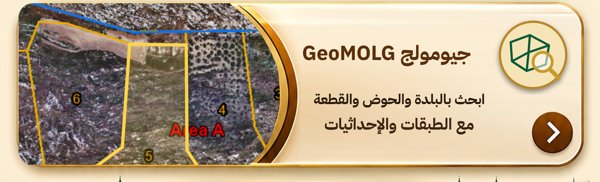
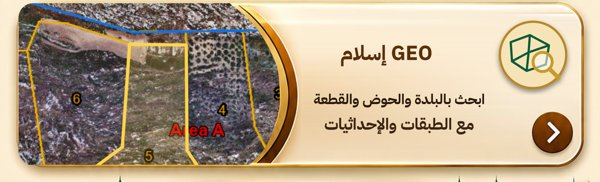
PDF grid numbers outside the frame with brighter crosses, table alignment; rename tools to GEO/GOV إسلام
Claude-Session: https://claude.ai/code/session_01AkLSPwRHM58vdM6rzVeHiX

Changed region(s): [[0.48, 0.2473, 0.78, 0.3846]]

diff --git a/app/src/main/assets/geomolg/pdf.js b/app/src/main/assets/geomolg/pdf.js
@@ -88,8 +88,9 @@ async function exportPDF(opts) {
     const xs = all.map(p => p[0]), ys = all.map(p => p[1]);
     let bx0 = Math.min(...xs), bx1 = Math.max(...xs), by0 = Math.min(...ys), by1 = Math.max(...ys);
     const W = mm(210), H = mm(297);
-    const F = { x: mm(10), y: mm(34), w: mm(190), h: mm(172) };
-    const fwmm = 190, fhmm = 172;
+    // with the coordinate grid the picture is a little smaller so the numbers fit outside it
+    const fwmm = opts.grid ? 174 : 190, fhmm = opts.grid ? 162 : 172;
+    const F = { x: mm(opts.grid ? 18 : 10), y: mm(opts.grid ? 40 : 34), w: mm(fwmm), h: mm(fhmm) };
     const need = Math.max((bx1 - bx0) * 1.5 * 1000 / fwmm, (by1 - by0) * 1.5 * 1000 / fhmm);
     const S = NICE_SCALES.find(v => v >= need) || Math.ceil(need / 1000) * 1000;
     const gw = fwmm * S / 1000, gh = fhmm * S / 1000, cxg = (bx0 + bx1) / 2, cyg = (by0 + by1) / 2;
@@ -151,7 +152,7 @@ async function exportPDF(opts) {
     ctx.strokeStyle = GREEN; ctx.lineWidth = 2; ctx.strokeRect(sx, sy, Lp, mm(1.6));
     txt(ctx, "0", sx, sy - mm(2.6), `600 ${mm(2.6)}px ${MF}`, INK, "center"); txt(ctx, Lm + " م", sx + Lp, sy - mm(2.6), `600 ${mm(2.6)}px ${AF}`, INK, "center");
     txt(ctx, "مقياس الرسم 1:" + S.toLocaleString("en-US"), sx + Lp / 2, sy - mm(2.6), `700 ${mm(2.8)}px ${AF}`, GREEN, "center");
-    if (opts.grid) drawGrid(ctx, F, { gx0, gx1, gy0, gy1, X, Y, gw }, opts.sys === "itm", { nx: F.x + mm(24), sx: sx + Lp + mm(5), sTop: F.y + F.h - mm(18) });
+    if (opts.grid) drawGrid(ctx, F, { gx0, gx1, gy0, gy1, X, Y, gw }, opts.sys === "itm");
 
     // info table
     const area = rings.reduce((t, r) => t + Math.abs(ringArea(r)), 0), per = cr.reduce((t, p) => t + p.reduce((u, a, i) => { const b = p[(i + 1) % p.length]; return u + Math.hypot(b[0] - a[0], b[1] - a[1]); }, 0), 0);
@@ -173,7 +174,7 @@ async function exportPDF(opts) {
       if (i) { ctx.strokeStyle = "#eadfbf"; ctx.lineWidth = 1.5; ctx.beginPath(); ctx.moveTo(tx0 + mm(1), y); ctx.lineTo(tx1 - mm(1), y); ctx.stroke(); }
       if (i % 2 === 0) { ctx.fillStyle = "rgba(243,234,210,.55)"; ctx.fillRect(tx1 - mm(36), y + 1, mm(36) - 2, rh - 2); }
       txt(ctx, r[0], tx1 - mm(2.5), y + rh / 2, `600 ${mm(3.1)}px ${AF}`, "#5d6458");
-      const val = String(r[1]); const isNum = /^[XY0-9 .,:–-]+$/.test(val) || /^X /.test(val);
+      const val = String(r[1]); const isNum = /^X /.test(val);
       txt(ctx, val, isNum ? tx0 + mm(3) : tx1 - mm(39), y + rh / 2, `700 ${mm(3.2)}px ${isNum ? MF : AF}`, INK, isNum ? "left" : "right");
     });
     drawStamp(ctx, mm(41), mm(246), mm(31));
@@ -213,35 +214,36 @@ async function exportPDF(opts) {
   finally { if (btn) { btn.disabled = false; btn.textContent = old; } }
 }
 
-/* real coordinates around the picture: ticks + labels on the frame, small crosses inside */
-function drawGrid(ctx, F, G, itm, avoid) {
+/* real coordinates around the picture: numbers outside the frame, ticks on it, bright crosses inside */
+function drawGrid(ctx, F, G, itm) {
   const { gx0, gx1, gy0, gy1, X, Y, gw } = G;
   const steps = [10, 20, 25, 50, 100, 200, 250, 500, 1000, 2000, 5000], step = steps.reduce((a, b) => Math.abs(b - gw / 5) < Math.abs(a - gw / 5) ? b : a);
   const to = (x, y) => itm ? proj4("EPSG:28191", "EPSG:2039", [x, y]) : [x, y];
   const from = (x, y) => itm ? proj4("EPSG:2039", "EPSG:28191", [x, y]) : [x, y];
-  // crossings of a coordinate value along an edge (edge given in grid/PG coordinates)
   const cross = (a, b, k) => { const out = [], N = 300; let pv = null, pp = null;
     for (let i = 0; i <= N; i++) { const t = i / N, x = a[0] + (b[0] - a[0]) * t, y = a[1] + (b[1] - a[1]) * t, v = to(x, y)[k];
       if (pv !== null) { const m0 = Math.floor(pv / step), m1 = Math.floor(v / step); if (m0 !== m1) { const val = Math.max(m0, m1) * step, f = (val - pv) / (v - pv); out.push({ x: pp[0] + (x - pp[0]) * f, y: pp[1] + (y - pp[1]) * f, val }); } }
       pv = v; pp = [x, y]; } return out; };
-  const fs = mm(2.5), font = `700 ${fs}px ${MF}`, tick = mm(2.6);
-  ctx.save(); ctx.lineWidth = 3;
-  const lab = (s, x, y, rot) => { ctx.save(); ctx.translate(x, y); if (rot) ctx.rotate(rot); ctx.font = font; ctx.textAlign = "center"; ctx.textBaseline = "middle"; ctx.direction = "ltr";
-    ctx.lineJoin = "round"; ctx.strokeStyle = "rgba(255,255,255,.95)"; ctx.lineWidth = 6; ctx.strokeText(s, 0, 0); ctx.fillStyle = GREEN_D; ctx.fillText(s, 0, 0); ctx.restore(); };
-  const line = (x1, y1, x2, y2) => { ctx.strokeStyle = "#fff"; ctx.lineWidth = 5; ctx.beginPath(); ctx.moveTo(x1, y1); ctx.lineTo(x2, y2); ctx.stroke(); ctx.strokeStyle = GREEN_D; ctx.lineWidth = 2.2; ctx.stroke(); };
-  // X along top & bottom
-  cross([gx0, gy1], [gx1, gy1], 0).forEach(c => { const px = X(c.x); if (px < avoid.nx) return; line(px, F.y, px, F.y + tick); lab(String(c.val), px, F.y + tick + fs * .9); });
-  cross([gx0, gy0], [gx1, gy0], 0).forEach(c => { const px = X(c.x); if (px < avoid.sx) return; line(px, F.y + F.h, px, F.y + F.h - tick); lab(String(c.val), px, F.y + F.h - tick - fs * .9); });
-  // Y along left & right (read bottom-to-top)
-  cross([gx0, gy0], [gx0, gy1], 1).forEach(c => { const py = Y(c.y); if (py < F.y + mm(26) || py > avoid.sTop) return; line(F.x, py, F.x + tick, py); lab(String(c.val), F.x + tick + fs * .9, py, -Math.PI / 2); });
-  cross([gx1, gy0], [gx1, gy1], 1).forEach(c => { const py = Y(c.y); if (py < F.y + mm(6) || py > F.y + F.h - mm(6)) return; line(F.x + F.w, py, F.x + F.w - tick, py); lab(String(c.val), F.x + F.w - tick - fs * .9, py, -Math.PI / 2); });
-  // crosses at grid intersections
+  const fs = mm(2.6), font = `700 ${fs}px ${MF}`, tick = mm(2.2), gap = mm(1.2);
+  ctx.save();
+  const lab = (s, x, y, rot) => { ctx.save(); ctx.translate(x, y); if (rot) ctx.rotate(rot); ctx.font = font; ctx.textAlign = "center"; ctx.textBaseline = "middle"; ctx.direction = "ltr"; ctx.fillStyle = GREEN_D; ctx.fillText(s, 0, 0); ctx.restore(); };
+  const out = (x1, y1, x2, y2) => { ctx.strokeStyle = GREEN_D; ctx.lineWidth = 3; ctx.beginPath(); ctx.moveTo(x1, y1); ctx.lineTo(x2, y2); ctx.stroke(); };
+  const bright = (x1, y1, x2, y2) => { ctx.lineCap = "round"; ctx.strokeStyle = "rgba(0,0,0,.75)"; ctx.lineWidth = 7; ctx.beginPath(); ctx.moveTo(x1, y1); ctx.lineTo(x2, y2); ctx.stroke(); ctx.strokeStyle = "#ffe14d"; ctx.lineWidth = 3.4; ctx.stroke(); };
+  const sys = itm ? "ITM" : "PG";
+  cross([gx0, gy1], [gx1, gy1], 0).forEach(c => { const px = X(c.x); out(px, F.y, px, F.y - tick); bright(px, F.y, px, F.y + tick); lab(String(c.val), px, F.y - tick - gap - fs * .5); });
+  cross([gx0, gy0], [gx1, gy0], 0).forEach(c => { const px = X(c.x); out(px, F.y + F.h, px, F.y + F.h + tick); bright(px, F.y + F.h, px, F.y + F.h - tick); lab(String(c.val), px, F.y + F.h + tick + gap + fs * .5); });
+  cross([gx0, gy0], [gx0, gy1], 1).forEach(c => { const py = Y(c.y); out(F.x, py, F.x - tick, py); bright(F.x, py, F.x + tick, py); lab(String(c.val), F.x - tick - gap - fs * .5, py, -Math.PI / 2); });
+  cross([gx1, gy0], [gx1, gy1], 1).forEach(c => { const py = Y(c.y); out(F.x + F.w, py, F.x + F.w + tick, py); bright(F.x + F.w, py, F.x + F.w - tick, py); lab(String(c.val), F.x + F.w + tick + gap + fs * .5, py, -Math.PI / 2); });
+  // corner captions: which axis / system
+  ctx.font = `700 ${mm(2.3)}px ${MF}`; ctx.fillStyle = GOLD; ctx.textBaseline = "middle"; ctx.direction = "ltr";
+  ctx.textAlign = "right"; ctx.fillText("X " + sys, F.x - mm(1), F.y - tick - gap - fs * .5);
+  ctx.textAlign = "left"; ctx.fillText("Y " + sys, F.x + F.w + mm(1), F.y - tick - gap - fs * .5);
+  // crosses at the grid intersections
   const c0 = to(gx0, gy0), c1 = to(gx1, gy1), c2 = to(gx0, gy1), c3 = to(gx1, gy0);
   const ax0 = Math.min(c0[0], c1[0], c2[0], c3[0]), ax1 = Math.max(c0[0], c1[0], c2[0], c3[0]), ay0 = Math.min(c0[1], c1[1], c2[1], c3[1]), ay1 = Math.max(c0[1], c1[1], c2[1], c3[1]);
   for (let gx = Math.ceil(ax0 / step) * step; gx <= ax1; gx += step) for (let gy = Math.ceil(ay0 / step) * step; gy <= ay1; gy += step) {
-    const p = from(gx, gy), px = X(p[0]), py = Y(p[1]); if (px < F.x + mm(8) || px > F.x + F.w - mm(8) || py < F.y + mm(8) || py > F.y + F.h - mm(8)) continue;
-    const r = mm(1.6); line(px - r, py, px + r, py); line(px, py - r, px, py + r);
+    const p = from(gx, gy), px = X(p[0]), py = Y(p[1]); if (px < F.x + mm(5) || px > F.x + F.w - mm(5) || py < F.y + mm(5) || py > F.y + F.h - mm(5)) continue;
+    const r = mm(2.4); bright(px - r, py, px + r, py); bright(px, py - r, px, py + r);
   }
-  ctx.strokeStyle = GREEN; ctx.lineWidth = mm(.6); rr(ctx, F.x, F.y, F.w, F.h, mm(2)); ctx.stroke();
   ctx.restore();
 }

diff --git a/app/src/main/assets/home.html b/app/src/main/assets/home.html
@@ -75,11 +75,11 @@ body.open .sheet-bg{opacity:1;pointer-events:auto}
   </div>
   <div class="gap" style="background-image:url(img/ui-g3.png)"></div>
   <div class="ui"><img src="img/ui-p5.jpg" alt="">
-    <a class="hit" href="govmap/index.html" aria-label="إحداثيات GovMap" style="left:3.19%;top:0.70%;width:94.05%;height:90.88%"></a>
+    <a class="hit" href="govmap/index.html" aria-label="GOV إسلام" style="left:3.19%;top:0.70%;width:94.05%;height:90.88%"></a>
   </div>
   <div class="gap" style="background-image:url(img/ui-g3.png)"></div>
   <div class="ui"><img src="img/ui-p6.jpg" alt="">
-    <a class="hit" href="geomolg/index.html" aria-label="جيومولج" style="left:3.19%;top:0.70%;width:94.05%;height:90.88%"></a>
+    <a class="hit" href="geomolg/index.html" aria-label="GEO إسلام" style="left:3.19%;top:0.70%;width:94.05%;height:90.88%"></a>
   </div>
   <img class="sky" src="img/ui-sky.jpg" alt="دقة .. احترافية .. لنتائج أفضل">
   <div class="fill"></div>
@@ -138,7 +138,7 @@ body.open .sheet-bg{opacity:1;pointer-events:auto}
   <h3 id="t-about">حول التطبيق</h3>
   <div class="about">
     <b style="font:700 22px var(--f-title);color:var(--green-2)">المساح إسلام</b><br>
-    حاسب الكواشين · الإفراز · حاسبة الجرف · إحداثيات GovMap · جيومولج<br>
+    حاسب الكواشين · الإفراز · حاسبة الجرف · GOV إسلام · GEO إسلام<br>
     صاحب ومطور التطبيق: <b>إسلام إسماعيل دويكات</b><br>
     <span class="phone">0598161862</span><br>
     <span id="ver2" style="color:var(--muted)"></span><br>
@@ -172,10 +172,10 @@ function projects() {
     out.push({ key: "ifraz-v1", img: "img/c-ifraz.jpg", href: "ifraz/index.html", title: fz.landTitle || "قطعة للإفراز", sub: "الإفراز · " + fmt(area(fz.boundary)) + " م² · " + (fz.owners || []).length + " مالك" });
   const gm = read("govmap-xy-v1");
   if (gm && Array.isArray(gm.hist) && gm.hist.length)
-    out.push({ key: "govmap-xy-v1", img: "img/c-govmap.jpg", href: "govmap/index.html", title: "إحداثيات " + gm.hist[0].x + " , " + gm.hist[0].y, sub: "إحداثيات GovMap · " + gm.hist.length + " نقطة محفوظة" });
+    out.push({ key: "govmap-xy-v1", img: "img/c-govmap.jpg", href: "govmap/index.html", title: "إحداثيات " + gm.hist[0].x + " , " + gm.hist[0].y, sub: "GOV إسلام · " + gm.hist.length + " نقطة محفوظة" });
   const gmo = read("geomolg-v1");
   if (gmo && gmo.vil)
-    out.push({ key: "geomolg-v1", img: "img/c-geomolg.jpg", href: "geomolg/index.html", title: gmo.vil + (gmo.blk ? " – حوض " + gmo.blk.split("/")[0] : "") + (gmo.plot ? " – قطعة " + gmo.plot : ""), sub: "جيومولج · آخر بحث" });
+    out.push({ key: "geomolg-v1", img: "img/c-geomolg.jpg", href: "geomolg/index.html", title: gmo.vil + (gmo.blk ? " – حوض " + gmo.blk.split("/")[0] : "") + (gmo.plot ? " – قطعة " + gmo.plot : ""), sub: "GEO إسلام · آخر بحث" });
   return out;
 }
 function renderProjects() {

diff --git a/app/src/main/assets/govmap/index.html b/app/src/main/assets/govmap/index.html
@@ -3,7 +3,7 @@
 <head>
 <meta charset="utf-8">
 <meta name="viewport" content="width=device-width,initial-scale=1,viewport-fit=cover">
-<title>إحداثيات GovMap</title>
+<title>GOV إسلام</title>
 <link rel="stylesheet" href="../ifraz/fonts.css">
 <link rel="stylesheet" href="../theme.css">
 <style>
@@ -45,10 +45,10 @@ h2{font:700 18px var(--am-title);color:var(--am-green-800);margin:0 0 8px}
 </style>
 </head>
 <body>
-<div class="am-bar"><span class="am-title"><img src="../img/t-govmap.png" alt=""><b>إحداثيات GovMap</b></span><a class="am-home" href="../home.html"><svg viewBox="0 0 24 24" fill="currentColor" aria-hidden="true"><path d="M12 3 2.5 11h2.7v9.5h5.3v-6h3v6h5.3V11h2.7z"/></svg>الرئيسية</a></div>
+<div class="am-bar"><span class="am-title"><img src="../img/t-govmap.png" alt=""><b>GOV إسلام</b></span><a class="am-home" href="../home.html"><svg viewBox="0 0 24 24" fill="currentColor" aria-hidden="true"><path d="M12 3 2.5 11h2.7v9.5h5.3v-6h3v6h5.3V11h2.7z"/></svg>الرئيسية</a></div>
 <div class="am-spacer" aria-hidden="true"></div>
 <main>
-  <h1>إحداثيات GovMap</h1>
+  <h1>GOV إسلام</h1>
   <p class="lead">أدخل الإحداثيات بنظام ITM (الشبكة الإسرائيلية الجديدة)، ويفتح الموقع على GovMap مع حدود الأحواض ومناطق أوسلو.</p>
 
   <section class="card">

diff --git a/app/src/main/assets/geomolg/index.html b/app/src/main/assets/geomolg/index.html
@@ -3,7 +3,7 @@
 <head>
 <meta charset="utf-8">
 <meta name="viewport" content="width=device-width,initial-scale=1,viewport-fit=cover">
-<title>جيومولج</title>
+<title>GEO إسلام</title>
 <link rel="stylesheet" href="../ifraz/fonts.css">
 <link rel="stylesheet" href="lib/leaflet.css">
 <link rel="stylesheet" href="../theme.css">
@@ -70,7 +70,7 @@ select:disabled{opacity:.55}
 </style>
 </head>
 <body>
-<div class="am-bar"><span class="am-title"><img src="../img/t-geomolg.png" alt=""><b>جيومولج</b></span><a class="am-home" href="../home.html"><svg viewBox="0 0 24 24" fill="currentColor" aria-hidden="true"><path d="M12 3 2.5 11h2.7v9.5h5.3v-6h3v6h5.3V11h2.7z"/></svg>الرئيسية</a></div>
+<div class="am-bar"><span class="am-title"><img src="../img/t-geomolg.png" alt=""><b>GEO إسلام</b></span><a class="am-home" href="../home.html"><svg viewBox="0 0 24 24" fill="currentColor" aria-hidden="true"><path d="M12 3 2.5 11h2.7v9.5h5.3v-6h3v6h5.3V11h2.7z"/></svg>الرئيسية</a></div>
 <div class="am-spacer" aria-hidden="true"></div>
 
 <div class="top">

diff --git a/app/src/main/java/ps/islam/hisas/MapActivity.java b/app/src/main/java/ps/islam/hisas/MapActivity.java
@@ -236,7 +236,7 @@ public class MapActivity extends Activity {
         txt.setOrientation(LinearLayout.VERTICAL);
         txt.setPadding(dp(10), 0, dp(10), 0);
         TextView t = new TextView(this);
-        t.setText("إحداثيات GovMap");
+        t.setText("GOV إسلام");
         t.setTextColor(Color.parseColor("#f0cf6a"));
         t.setTextSize(TypedValue.COMPLEX_UNIT_SP, 19);
         t.setTypeface(android.graphics.Typeface.DEFAULT_BOLD);
